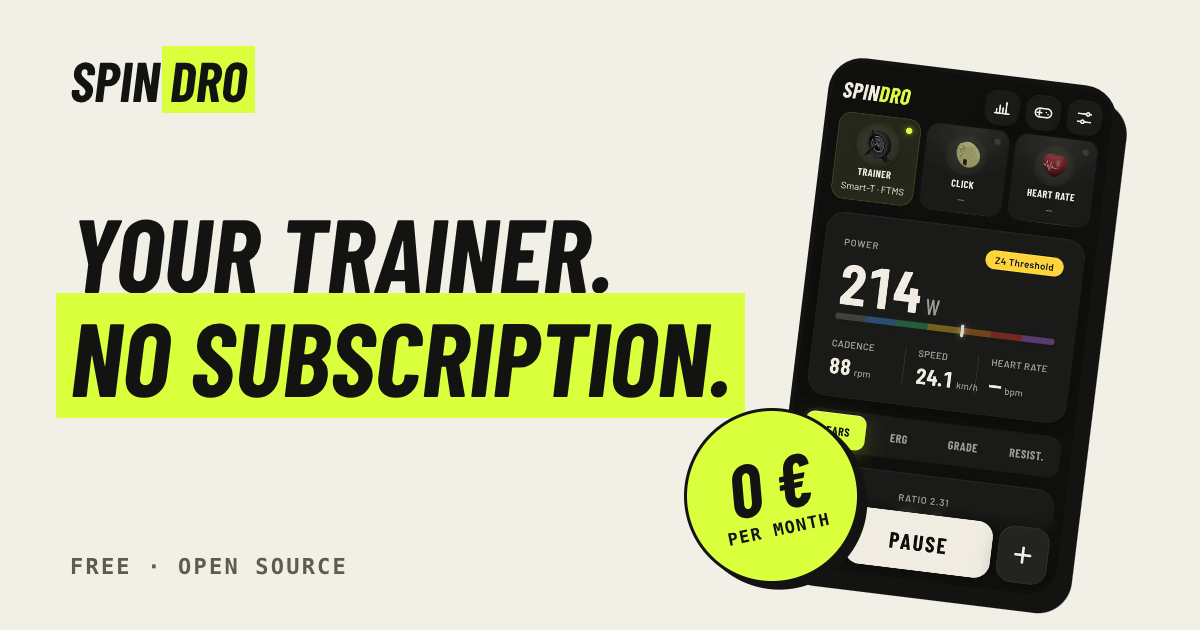
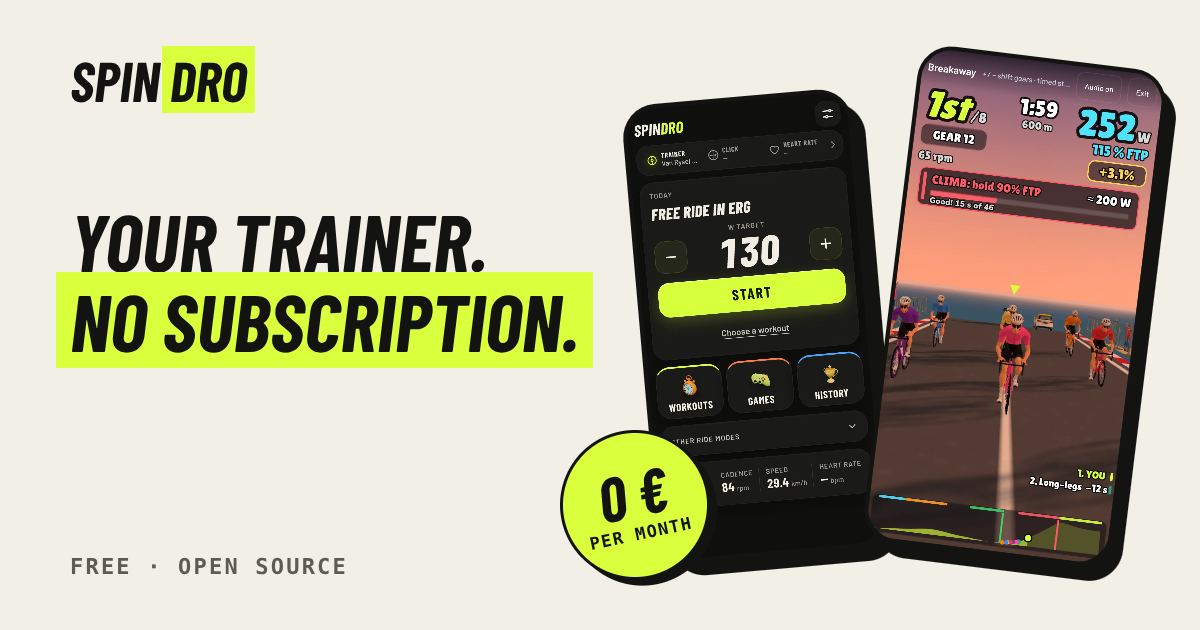
Update OG image, site README and add running notes

diff --git a/site/README.md b/site/README.md
@@ -5,10 +5,8 @@ Sito statico (senza framework, senza tracker) generato da `site/build.mjs` con t
 ```sh
 node site/build.mjs              # scrive site/dist/ (non versionata)
 python3 -m http.server 4400 -d site/dist   # anteprima su http://127.0.0.1:4400
-node site/shots.mjs              # screenshot dei giochi (1280x720 -> WebP 960x540, en e it) -> site/assets/shots/game-*
-node site/app-shots.mjs          # screenshot dell'app (540x960, en e it) -> site/assets/shots/
-node site/make-og.mjs            # anteprima social site/assets/og.png
-node site/make-og.mjs            # immagine social site/assets/og.png (1200x630)
+node scripts/site-shots.mjs      # TUTTI gli screenshot (app e giochi, 390x780 a scala 2, WebP < 120 KB, en e it) -> site/assets/shots/
+node site/make-og.mjs            # immagine social site/assets/og.png (1200x630) dagli screenshot veri
 ```
 
 | Cosa | Dove |
@@ -24,3 +22,7 @@ node site/make-og.mjs            # immagine social site/assets/og.png (1200x630)
 **Compatibilità**: solo il Van Rysel D100 è `verified`. Un modello passa a `reported` quando ci sono segnalazioni degli utenti, a `verified` solo se provato davvero.
 
 I font Barlow sono serviti dal sito stesso (licenza OFL in `assets/fonts/`): nessuna richiesta a Google Fonts.
+
+**Blog**: Markdown in `site/blog/<slug>.<lingua>.md` con intestazione `title`, `description`, `date`, `order`, `image`; `![didascalia](shot:nome)` inserisce uno screenshot di `assets/shots`. `build.mjs` genera `/blog/`, gli articoli (dati strutturati Article) e il feed `blog/feed.xml` per lingua. Le pagine `/developers/` leggono `docs/games/*.md` se esistono; altrimenti dicono che la guida è in arrivo. Il paragrafo «un gioco può seguire il tuo allenamento» compare solo se esiste `js/games/kit/workout-plan.js`.
+
+**Controlli**: `tests/site.spec.mjs` costruisce il sito e verifica link, ancore, immagini, titoli, hreflang, sitemap, feed e contrasti.

diff --git a/docs/design/s3-notes.md b/docs/design/s3-notes.md
@@ -1,0 +1,16 @@
+# S3 site launch: running checklist
+
+Done
+- Truth pass on site (en + it), README, Play store texts (en, it, fr, es, de): outdated games, "verified" claims, unmeasured numbers removed. Zwift Click is "partly verified" (only + / − of a Click v2); Garmin and other watches "should work".
+- `scripts/site-shots.mjs`: re-runnable, 15 screens x 2 languages, 390x780 @2x, WebP < 120 KB, fake trainer connected. Old `site/shots.mjs` and `site/app-shots.mjs` removed.
+- OG image from real screenshots (`node site/make-og.mjs`), 260 KB.
+- `/developers/` and home "Build a game" section; links to `docs/games/*.md` appear automatically once they exist.
+- Blog: 3 articles x 2 languages, RSS per language, Article JSON-LD, links from home.
+- `tests/site.spec.mjs`: one h1, titles/descriptions, canonical, hreflang, links and anchors, image sizes/alt, sitemap, robots, feeds, word count, contrast.
+- Contact sheet `docs/design/s3-site.png`.
+
+Left / to redo at the end
+- Re-run `node scripts/site-shots.mjs` once the app UI is final, then `node site/make-og.mjs`.
+- Check `docs/games/CREATE-A-GAME.md` and `js/games/kit/workout-plan.js` after merging `origin/beta`; rebuild.
+- Links to docs on GitHub point at `main`: they work after `beta` is promoted.
+- Not done: axe-core run (no dependency allowed; contrast and structure are checked by `tests/site.spec.mjs`).
